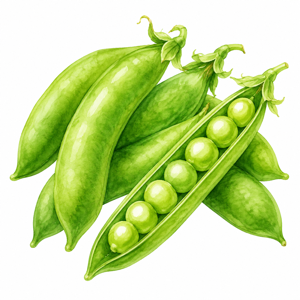
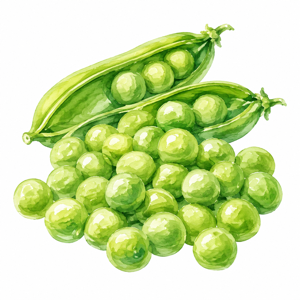
Distinguish shelling pea image

diff --git a/src/data/cultivationLinks.ts b/src/data/cultivationLinks.ts
@@ -311,7 +311,7 @@ export const cultivationLinks: Record<string, CultivationLink[]> = {
     { title: '豆類 野菜栽培技術指針（PDF）', url: 'https://www.maff.go.jp/j/seisan/kankyo/hozen_type/h_sehi_kizyun/attach/pdf/aki3-20.pdf', source: '農林水産省', type: 'pdf' },
   ],
   'minori-endou': [
-    { title: 'タキイのエンドウ栽培マニュアル（実えんどう含む）', url: 'https://www.takii.co.jp/tsk/manual/endou.html', source: 'タキイ種苗', type: 'web' },
+    { title: 'タキイのエンドウ栽培マニュアル（実エンドウ含む）', url: 'https://www.takii.co.jp/tsk/manual/endou.html', source: 'タキイ種苗', type: 'web' },
     { title: 'タキイのエンドウ栽培マニュアル（PDF）', url: 'https://www.takii.co.jp/tsk/manual/pdf/endou.pdf', source: 'タキイ種苗', type: 'pdf' },
     { title: '豆類 野菜栽培技術指針（PDF）', url: 'https://www.maff.go.jp/j/seisan/kankyo/hozen_type/h_sehi_kizyun/attach/pdf/aki3-20.pdf', source: '農林水産省', type: 'pdf' },
   ],

diff --git a/src/data/vegetables.ts b/src/data/vegetables.ts
@@ -832,7 +832,7 @@ export const vegetables: Vegetable[] = [
   },
   {
     id: 'minori-endou',
-    name: '実えんどう',
+    name: '実エンドウ',
     nameRoma: 'Garden Pea',
     category: '豆類',
     classification: 'その他',
